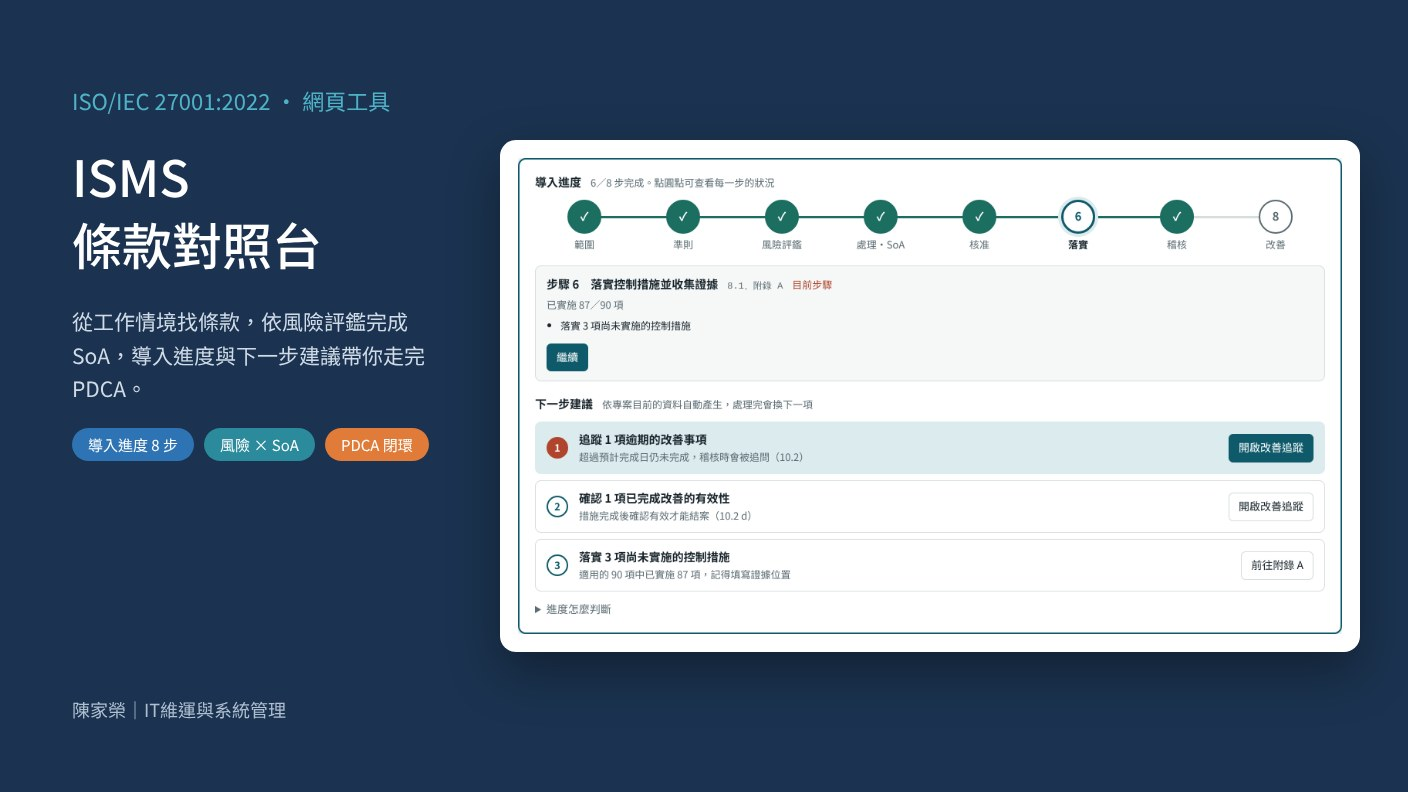
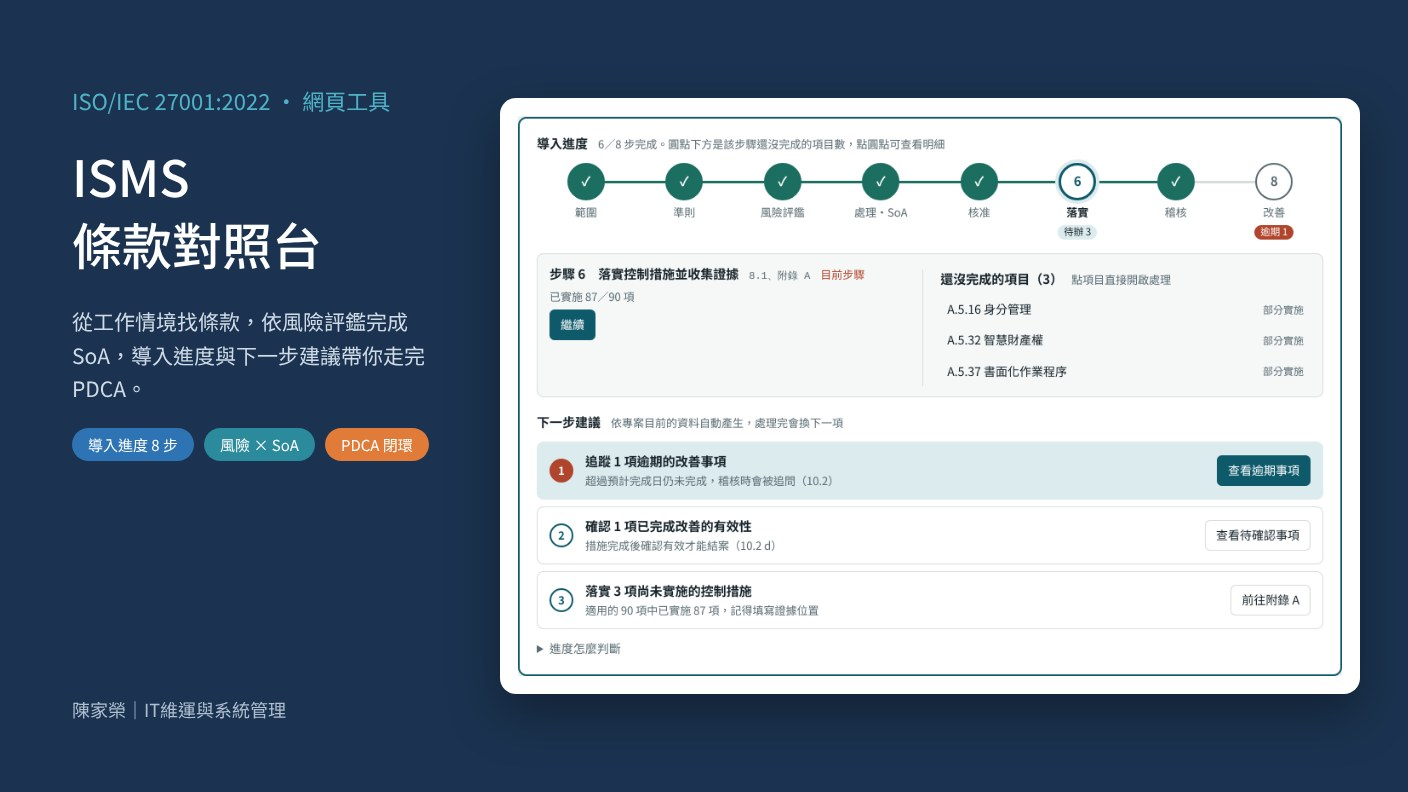
Add files via upload

Changed region(s): [[0.3438, 0.1212, 0.9688, 0.8788], [0.9062, 0.4242, 0.9375, 0.4848], [0.9062, 0.3636, 0.9375, 0.3939]]

diff --git a/index.html b/index.html
@@ -75,14 +75,14 @@ footer{font-size:13px;color:var(--muted);padding-block:0 40px}
   </article>
 
   <article class="work" id="mapper">
-    <figure><img src="img/mapper-cover.jpg?v=20261027" alt="ISMS 條款對照台：導入進度與下一步建議畫面"></figure>
+    <figure><img src="img/mapper-cover.jpg?v=20261029" alt="ISMS 條款對照台：導入進度與下一步建議畫面"></figure>
     <div class="t">
       <span class="n">03 · 通用工具</span>
       <h2>ISMS 條款對照台</h2>
       <p class="tagline">從工作情境到 SoA 的 ISO 27001 導入工具</p>
       <p>導入 ISMS 最卡的往往不是看不懂條款，而是不知道手上的工作和條款有什麼關係。這個工具讓 IT 人員用日常說法（「同事離職」「廠商要遠端維護」）找到對應的控制措施，再一路帶到風險評鑑、適用性聲明（SoA）與每年的管理審查，把分散在各個 Excel 的工作，變成一個會提醒下一步的專案。</p>
-      <ul><li>用日常說法查條款：104 個實務情境與同義詞字典，輸入「帳號沒關」「被駭了」也找得到，可加入公司自訂情境</li><li>依 ISO/IEC 27005 流程登錄與評估風險，與 SoA 連動，自動找出稽核常見缺口</li><li>導入進度與下一步建議，第一次導入照著做即可完成</li><li>改善追蹤與年度比較，PDCA 閉環並產出管理審查（9.3）輸入資料</li><li>一鍵匯出可直接送審的 SoA，另附 32 份 ISMS 文件範本；可匯入既有的 SoA 與風險評鑑 Excel</li><li>內建台灣法規提示（個資法、資安法、上市櫃資通安全管控指引）與 Amd 1:2024 氣候變遷增修</li><li>資料只存在使用者瀏覽器並設定 CSP；單元測試由 GitHub Actions 自動執行</li><li>需求、ISMS 內容與功能設計由本人負責，程式以 AI 協作撰寫</li></ul>
-      <div class="links"><a class="p" href="https://coloplay1.github.io/isms-mapper/" target="_blank" rel="noopener">開啟 Demo</a><a href="https://github.com/coloplay1/isms-mapper" target="_blank" rel="noopener">GitHub 原始碼</a><a href="https://coloplay1.github.io/isms-mapper/docs/user-guide.pdf?v=1.18.5" target="_blank" rel="noopener">使用指南 PDF</a></div>
+      <ul><li>用日常說法查條款：104 個實務情境與同義詞字典，輸入「帳號沒關」「被駭了」也找得到，可加入公司自訂情境</li><li>依 ISO/IEC 27005 流程登錄與評估風險，與 SoA 連動，自動找出稽核常見缺口</li><li>導入進度標出每一步還缺幾項，點開直接處理；下一步建議依急迫程度排序，第一次導入照著做即可完成</li><li>改善追蹤與年度比較，PDCA 閉環並產出管理審查（9.3）輸入資料</li><li>一鍵匯出可直接送審的 SoA；32 份 ISMS 文件範本會依專案說明建立依據（標準要求、適用的控制措施、引用的風險），只準備真正需要的文件；可匯入既有的 SoA 與風險評鑑 Excel</li><li>內建台灣法規提示（個資法、資安法、上市櫃資通安全管控指引）與 Amd 1:2024 氣候變遷增修</li><li>資料只存在使用者瀏覽器並設定 CSP；單元測試由 GitHub Actions 自動執行</li><li>需求、ISMS 內容與功能設計由本人負責，程式以 AI 協作撰寫</li></ul>
+      <div class="links"><a class="p" href="https://coloplay1.github.io/isms-mapper/" target="_blank" rel="noopener">開啟 Demo</a><a href="https://github.com/coloplay1/isms-mapper" target="_blank" rel="noopener">GitHub 原始碼</a><a href="https://coloplay1.github.io/isms-mapper/docs/user-guide.pdf?v=1.24.0" target="_blank" rel="noopener">使用指南 PDF</a></div>
     </div>
   </article>
 </main>
